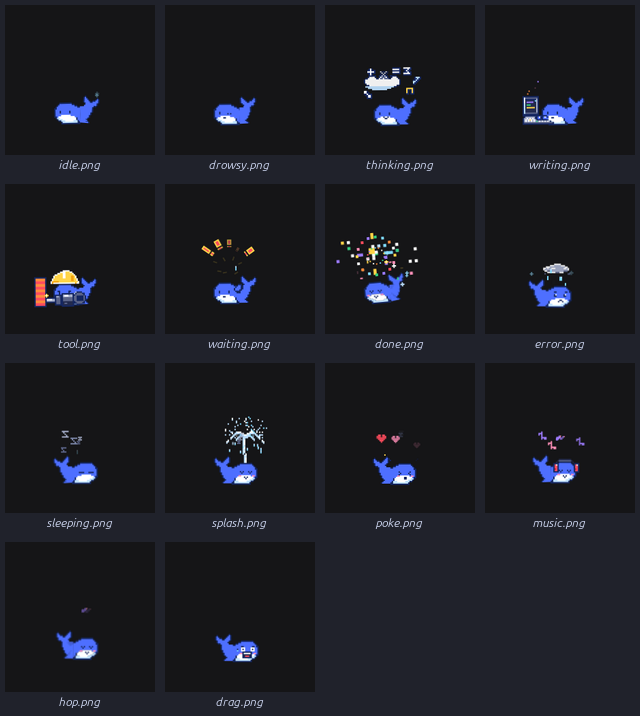
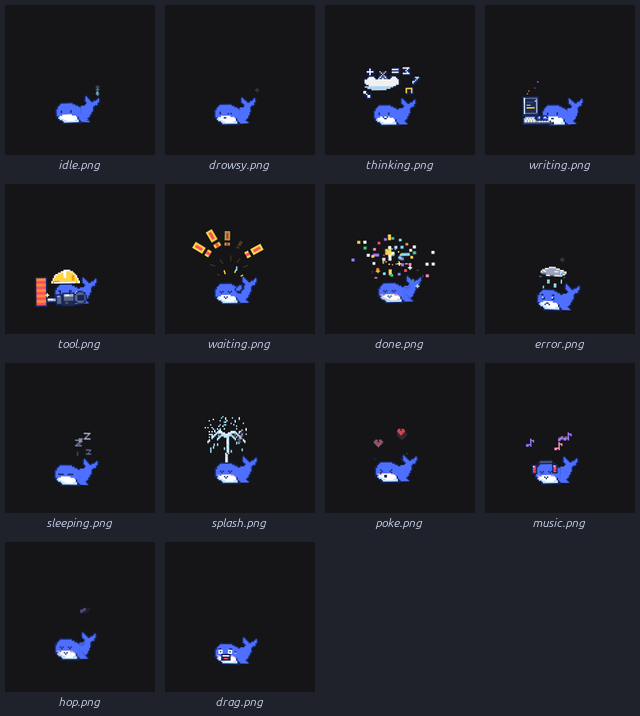
waiting: big radial exclamation fan and happy excited whale like the reference

diff --git a/client.js b/client.js
@@ -229,6 +229,8 @@ const ART = {
 
 /* --- 8. waiting (ref: notification): big "!" bubble + waving flipper ---- */
 .dsh-whale.is-waiting #dw-bob { animation: dw-bob 2.6s ease-in-out infinite; }
+.dsh-whale.is-waiting #dw-face,
+.dsh-whale.is-waiting #dw-mouth-smile { display: none; }
 .dsh-whale.is-waiting .dw-alert { animation: dw-alert-pop 1.6s ease-out infinite; animation-delay: var(--ad, 0s); transform-box: fill-box; transform-origin: center; }
 .dsh-whale.is-waiting .dw-alert-spark { animation: dw-alert-spark 1.1s steps(1, end) infinite; animation-delay: var(--ad, 0s); }
 @keyframes dw-alert-pop {
@@ -609,7 +611,7 @@ const ART = {
     <g id="dw-hammer" class="dw-only dw-on-tool"><rect x="4" y="76" width="18" height="8" fill="#142660"/><rect x="6" y="78" width="14" height="4" fill="#A7B0CC"/><rect x="6" y="78" width="8" height="2" fill="#FFFFFF"/><rect x="18" y="80" width="4" height="2" fill="#5B6488"/><rect x="18" y="72" width="10" height="16" fill="#142660"/><rect x="20" y="74" width="6" height="12" fill="#5B6488"/><rect x="20" y="74" width="4" height="2" fill="#A7B0CC"/><rect x="28" y="70" width="18" height="20" fill="#142660"/><rect x="30" y="72" width="14" height="16" fill="#5B6488"/><rect x="30" y="72" width="14" height="4" fill="#A7B0CC"/><rect x="32" y="73" width="6" height="2" fill="#FFFFFF"/><rect x="30" y="82" width="14" height="6" fill="#222A4E"/><rect x="32" y="84" width="4" height="2" fill="#5B6488"/><g id="dw-handle-loop"><rect x="50" y="68" width="2" height="2" fill="#142660"/><rect x="52" y="68" width="2" height="2" fill="#142660"/><rect x="54" y="68" width="2" height="2" fill="#142660"/><rect x="56" y="68" width="2" height="2" fill="#142660"/><rect x="46" y="70" width="2" height="2" fill="#142660"/><rect x="48" y="70" width="2" height="2" fill="#142660"/><rect x="50" y="70" width="2" height="2" fill="#5B6488"/><rect x="52" y="70" width="2" height="2" fill="#5B6488"/><rect x="54" y="70" width="2" height="2" fill="#5B6488"/><rect x="56" y="70" width="2" height="2" fill="#5B6488"/><rect x="58" y="70" width="2" height="2" fill="#142660"/><rect x="60" y="70" width="2" height="2" fill="#142660"/><rect x="46" y="72" width="2" height="2" fill="#142660"/><rect x="48" y="72" width="2" height="2" fill="#5B6488"/><rect x="50" y="72" width="2" height="2" fill="#5B6488"/><rect x="52" y="72" width="2" height="2" fill="#5B6488"/><rect x="54" y="72" width="2" height="2" fill="#5B6488"/><rect x="56" y="72" width="2" height="2" fill="#5B6488"/><rect x="58" y="72" width="2" height="2" fill="#5B6488"/><rect x="60" y="72" width="2" height="2" fill="#142660"/><rect x="44" y="74" width="2" height="2" fill="#142660"/><rect x="46" y="74" width="2" height="2" fill="#5B6488"/><rect x="48" y="74" width="2" height="2" fill="#5B6488"/><rect x="58" y="74" width="2" height="2" fill="#5B6488"/><rect x="60" y="74" width="2" height="2" fill="#5B6488"/><rect x="62" y="74" width="2" height="2" fill="#142660"/><rect x="44" y="76" width="2" height="2" fill="#142660"/><rect x="46" y="76" width="2" height="2" fill="#5B6488"/><rect x="48" y="76" width="2" height="2" fill="#5B6488"/><rect x="58" y="76" width="2" height="2" fill="#5B6488"/><rect x="60" y="76" width="2" height="2" fill="#5B6488"/><rect x="62" y="76" width="2" height="2" fill="#142660"/><rect x="44" y="78" width="2" height="2" fill="#142660"/><rect x="46" y="78" width="2" height="2" fill="#5B6488"/><rect x="48" y="78" width="2" height="2" fill="#5B6488"/><rect x="58" y="78" width="2" height="2" fill="#5B6488"/><rect x="60" y="78" width="2" height="2" fill="#5B6488"/><rect x="62" y="78" width="2" height="2" fill="#142660"/><rect x="44" y="80" width="2" height="2" fill="#142660"/><rect x="46" y="80" width="2" height="2" fill="#5B6488"/><rect x="48" y="80" width="2" height="2" fill="#5B6488"/><rect x="58" y="80" width="2" height="2" fill="#5B6488"/><rect x="60" y="80" width="2" height="2" fill="#5B6488"/><rect x="62" y="80" width="2" height="2" fill="#142660"/><rect x="46" y="82" width="2" height="2" fill="#142660"/><rect x="48" y="82" width="2" height="2" fill="#5B6488"/><rect x="50" y="82" width="2" height="2" fill="#5B6488"/><rect x="52" y="82" width="2" height="2" fill="#5B6488"/><rect x="54" y="82" width="2" height="2" fill="#5B6488"/><rect x="56" y="82" width="2" height="2" fill="#5B6488"/><rect x="58" y="82" width="2" height="2" fill="#5B6488"/><rect x="60" y="82" width="2" height="2" fill="#142660"/><rect x="46" y="84" width="2" height="2" fill="#142660"/><rect x="48" y="84" width="2" height="2" fill="#142660"/><rect x="50" y="84" width="2" height="2" fill="#5B6488"/><rect x="52" y="84" width="2" height="2" fill="#5B6488"/><rect x="54" y="84" width="2" height="2" fill="#5B6488"/><rect x="56" y="84" width="2" height="2" fill="#5B6488"/><rect x="58" y="84" width="2" height="2" fill="#142660"/><rect x="60" y="84" width="2" height="2" fill="#142660"/><rect x="50" y="86" width="2" height="2" fill="#142660"/><rect x="52" y="86" width="2" height="2" fill="#142660"/><rect x="54" y="86" width="2" height="2" fill="#142660"/><rect x="56" y="86" width="2" height="2" fill="#142660"/><rect x="46" y="70" width="2" height="2" fill="#A7B0CC"/><rect x="48" y="68" width="2" height="2" fill="#A7B0CC"/><rect x="50" y="74" width="2" height="2" fill="#142660"/><rect x="50" y="76" width="2" height="2" fill="#142660"/><rect x="50" y="78" width="2" height="2" fill="#142660"/><rect x="50" y="80" width="2" height="2" fill="#142660"/><rect x="52" y="74" width="2" height="2" fill="#142660"/><rect x="52" y="76" width="2" height="2" fill="#142660"/><rect x="52" y="78" width="2" height="2" fill="#142660"/><rect x="52" y="80" width="2" height="2" fill="#142660"/><rect x="54" y="74" width="2" height="2" fill="#142660"/><rect x="54" y="76" width="2" height="2" fill="#142660"/><rect x="54" y="78" width="2" height="2" fill="#142660"/><rect x="54" y="80" width="2" height="2" fill="#142660"/><rect x="56" y="74" width="2" height="2" fill="#142660"/><rect x="56" y="76" width="2" height="2" fill="#142660"/><rect x="56" y="78" width="2" height="2" fill="#142660"/><rect x="56" y="80" width="2" height="2" fill="#142660"/><rect x="58" y="74" width="2" height="2" fill="#142660"/><rect x="58" y="76" width="2" height="2" fill="#142660"/><rect x="58" y="78" width="2" height="2" fill="#142660"/><rect x="58" y="80" width="2" height="2" fill="#142660"/></g></g><g id="dw-face"><rect x="24" y="68" width="2" height="4" fill="#142660"/><rect x="38" y="68" width="2" height="4" fill="#142660"/></g>
     <g id="dw-face-blink" class="dw-alt dw-on-idle"><rect x="24" y="70" width="4" height="2" fill="#142660"/><rect x="38" y="70" width="4" height="2" fill="#142660"/></g>
     <g id="dw-face-up" class="dw-alt dw-on-thinking"><rect x="24" y="66" width="2" height="4" fill="#142660"/><rect x="38" y="66" width="2" height="4" fill="#142660"/></g><g id="dw-face-up-blink" class="dw-alt dw-on-thinking"><rect x="22" y="68" width="4" height="2" fill="#142660"/><rect x="38" y="68" width="4" height="2" fill="#142660"/></g>
-    <g id="dw-face-happy" class="dw-alt dw-on-done dw-on-music dw-on-splash dw-on-hop"><rect x="24" y="68" width="2" height="2" fill="#142660"/><rect x="26" y="70" width="2" height="2" fill="#142660"/><rect x="28" y="68" width="2" height="2" fill="#142660"/><rect x="36" y="68" width="2" height="2" fill="#142660"/><rect x="38" y="70" width="2" height="2" fill="#142660"/><rect x="40" y="68" width="2" height="2" fill="#142660"/></g>
+    <g id="dw-face-happy" class="dw-alt dw-on-done dw-on-music dw-on-splash dw-on-hop dw-on-waiting"><rect x="24" y="68" width="2" height="2" fill="#142660"/><rect x="26" y="70" width="2" height="2" fill="#142660"/><rect x="28" y="68" width="2" height="2" fill="#142660"/><rect x="36" y="68" width="2" height="2" fill="#142660"/><rect x="38" y="70" width="2" height="2" fill="#142660"/><rect x="40" y="68" width="2" height="2" fill="#142660"/></g>
     <g id="dw-face-sad" class="dw-alt dw-on-error"><rect x="24" y="68" width="4" height="4" fill="#142660"/><rect x="24" y="68" width="2" height="2" fill="#FFFFFF"/><rect x="38" y="68" width="4" height="4" fill="#142660"/><rect x="38" y="68" width="2" height="2" fill="#FFFFFF"/><rect x="22" y="64" width="4" height="2" fill="#142660"/><rect x="38" y="64" width="4" height="2" fill="#142660"/></g>
     <g id="dw-drowsy-eye-closed" class="dw-alt dw-on-drowsy"><rect x="36" y="70" width="2" height="2" fill="#142660"/><rect x="40" y="70" width="2" height="2" fill="#142660"/></g><g id="dw-drowsy-eye-open" class="dw-alt dw-on-drowsy"><rect x="38" y="68" width="2" height="4" fill="#142660"/></g><g id="dw-face-sleep" class="dw-alt dw-on-sleeping"><rect x="22" y="70" width="8" height="2" fill="#142660"/><rect x="36" y="70" width="8" height="2" fill="#142660"/></g>
     <g id="dw-face-odd" class="dw-alt dw-on-poke"><rect x="24" y="68" width="2" height="2" fill="#142660"/><rect x="26" y="70" width="2" height="2" fill="#142660"/><rect x="24" y="72" width="2" height="2" fill="#142660"/><rect x="40" y="68" width="2" height="2" fill="#142660"/><rect x="38" y="70" width="2" height="2" fill="#142660"/><rect x="40" y="72" width="2" height="2" fill="#142660"/></g>
@@ -618,10 +620,10 @@ const ART = {
     <g id="dw-face-drag" class="dw-alt dw-on-drag"><rect x="22" y="64" width="4" height="2" fill="#142660"/><rect x="38" y="64" width="4" height="2" fill="#142660"/><rect x="22" y="66" width="6" height="6" fill="#FFFFFF"/><rect x="24" y="68" width="2" height="2" fill="#142660"/><rect x="36" y="66" width="6" height="6" fill="#FFFFFF"/><rect x="38" y="68" width="2" height="2" fill="#142660"/><rect x="46" y="68" width="2" height="4" fill="#7FDBFF"/><rect x="46" y="68" width="2" height="2" fill="#142660"/></g>
     <g id="dw-blush" class="dw-alt dw-on-done dw-on-music dw-on-splash dw-on-poke dw-on-hop dw-on-drag"><rect x="20" y="74" width="4" height="2" fill="#FF8FB8"/><rect x="40" y="74" width="4" height="2" fill="#FF8FB8"/></g>
     <g id="dw-mouth-smile"><rect x="30" y="76" width="4" height="2" fill="#142660"/></g><g id="dw-mouth-drag-closed" class="dw-alt dw-on-drag"><rect x="28" y="76" width="10" height="2" fill="#142660"/></g><g id="dw-mouth-drag-open" class="dw-alt dw-on-drag"><rect x="26" y="72" width="14" height="10" fill="#142660"/><rect x="28" y="74" width="10" height="6" fill="#222A4E"/><rect x="28" y="74" width="10" height="2" fill="#FFFFFF"/><rect x="30" y="78" width="6" height="2" fill="#FF4D5E"/></g><g id="dw-mouth-think-closed" class="dw-alt dw-on-thinking"><rect x="30" y="74" width="2" height="2" fill="#142660"/><rect x="32" y="76" width="2" height="2" fill="#142660"/><rect x="34" y="76" width="2" height="2" fill="#142660"/><rect x="36" y="74" width="2" height="2" fill="#142660"/></g><g id="dw-mouth-think-line" class="dw-alt dw-on-thinking"><rect x="30" y="76" width="6" height="2" fill="#142660"/></g><g id="dw-mouth-think-open" class="dw-alt dw-on-thinking"><rect x="30" y="74" width="6" height="4" fill="#142660"/><rect x="32" y="76" width="2" height="2" fill="#FF8FB8"/></g>
-    <g id="dw-mouth-happy" class="dw-alt dw-on-done dw-on-music dw-on-splash dw-on-hop"><rect x="30" y="76" width="2" height="2" fill="#142660"/><rect x="32" y="78" width="2" height="2" fill="#142660"/><rect x="34" y="76" width="2" height="2" fill="#142660"/></g>
+    <g id="dw-mouth-happy" class="dw-alt dw-on-done dw-on-music dw-on-splash dw-on-hop dw-on-waiting"><rect x="30" y="76" width="2" height="2" fill="#142660"/><rect x="32" y="78" width="2" height="2" fill="#142660"/><rect x="34" y="76" width="2" height="2" fill="#142660"/></g>
     <g id="dw-mouth-frown" class="dw-alt dw-on-error"><rect x="28" y="78" width="2" height="2" fill="#142660"/><rect x="30" y="76" width="4" height="2" fill="#142660"/><rect x="34" y="78" width="2" height="2" fill="#142660"/></g>
     <g id="dw-mouth-o" class="dw-alt dw-on-poke"><rect x="30" y="76" width="4" height="4" fill="#142660"/></g>
-    <g id="dw-alerts" class="dw-only dw-on-waiting"><rect class="dw-alert-spark" x="16" y="26" width="2" height="6" fill="#FFD447" transform="rotate(-70 16 26)" style="--ad:0.20s"/><rect class="dw-alert-spark" x="30" y="20" width="2" height="6" fill="#FFD447" transform="rotate(-30 30 20)" style="--ad:0.00s"/><rect class="dw-alert-spark" x="46" y="18" width="2" height="6" fill="#FFD447" transform="rotate(20 46 18)" style="--ad:0.40s"/><rect class="dw-alert-spark" x="58" y="26" width="2" height="6" fill="#FFD447" transform="rotate(65 58 26)" style="--ad:0.40s"/><rect class="dw-alert-spark" x="36" y="40" width="2" height="6" fill="#FFD447" transform="rotate(80 36 40)" style="--ad:0.10s"/><rect class="dw-alert-spark" x="22" y="40" width="2" height="6" fill="#FFD447" transform="rotate(-80 22 40)" style="--ad:0.20s"/><rect class="dw-alert-spark" x="52" y="40" width="2" height="6" fill="#FFD447" transform="rotate(60 52 40)" style="--ad:0.20s"/><g transform="translate(18 16) rotate(-55)"><g class="dw-alert" style="--ad:0s"><path d="M-3 -20h6v13h-6zM-3 -5h6v4h-6z" fill="#FFD447"/><path d="M-1 -18h2v9h-2zM-1 -5h2v4h-2z" fill="#FF4D5E"/></g></g><g transform="translate(28 8) rotate(-28)"><g class="dw-alert" style="--ad:0.12s"><path d="M-4 -16h8v10h-8zM-4 -4h8v2h-8z" fill="#FFD447"/><path d="M-2 -14h4v6h-4zM-2 -4h4v2h-4z" fill="#FF4D5E"/></g></g><g transform="translate(40 4) rotate(0)"><g class="dw-alert" style="--ad:0.24s"><path d="M-4 -16h8v10h-8zM-4 -4h8v2h-8z" fill="#FFD447"/><path d="M-2 -14h4v6h-4zM-2 -4h4v2h-4z" fill="#FF4D5E"/></g></g><g transform="translate(52 8) rotate(28)"><g class="dw-alert" style="--ad:0.36s"><path d="M-4 -16h8v10h-8zM-4 -4h8v2h-8z" fill="#FFD447"/><path d="M-2 -14h4v6h-4zM-2 -4h4v2h-4z" fill="#FF4D5E"/></g></g><g transform="translate(62 16) rotate(55)"><g class="dw-alert" style="--ad:0.48s"><path d="M-4 -16h8v10h-8zM-4 -4h8v2h-8z" fill="#FFD447"/><path d="M-2 -14h4v6h-4zM-2 -4h4v2h-4z" fill="#FF4D5E"/></g></g></g><g id="dw-wavefin" class="dw-only dw-on-waiting"><path d="M52 58h6v2h-6zM50 60h2v2h-2zM56 60h4v6h-4zM48 62h2v2h-2zM46 64h2v4h-2zM54 66h4v2h-4zM48 68h8v2h-8zM50 70h6v2h-6z" fill="#142660"/><path d="M52 60h4v6h-4zM50 62h2v6h-2zM48 64h2v4h-2zM52 66h2v2h-2z" fill="#4E6FFF"/></g>
+    <g id="dw-alerts" class="dw-only dw-on-waiting"><rect class="dw-alert-spark" x="10" y="30" width="2" height="8" fill="#FFD447" transform="rotate(-72 10 30)" style="--ad:0.10s"/><rect class="dw-alert-spark" x="24" y="22" width="2" height="8" fill="#FFD447" transform="rotate(-34 24 22)" style="--ad:0.30s"/><rect class="dw-alert-spark" x="40" y="16" width="2" height="8" fill="#FFD447" transform="rotate(0 40 16)" style="--ad:0.50s"/><rect class="dw-alert-spark" x="54" y="20" width="2" height="8" fill="#FFD447" transform="rotate(40 54 20)" style="--ad:0.20s"/><rect class="dw-alert-spark" x="66" y="30" width="2" height="8" fill="#FFD447" transform="rotate(70 66 30)" style="--ad:0.45s"/><rect class="dw-alert-spark" x="30" y="38" width="2" height="6" fill="#FFD447" transform="rotate(-15 30 38)" style="--ad:0.60s"/><rect class="dw-alert-spark" x="48" y="36" width="2" height="6" fill="#FFD447" transform="rotate(25 48 36)" style="--ad:0.70s"/><rect class="dw-alert-spark" x="20" y="44" width="2" height="4" fill="#FFD447" transform="rotate(-60 20 44)" style="--ad:0.35s"/><rect class="dw-alert-spark" x="58" y="44" width="2" height="4" fill="#FFD447" transform="rotate(55 58 44)" style="--ad:0.55s"/><g transform="translate(10 14) rotate(-58)"><g class="dw-alert" style="--ad:0.0s"><path d="M-5 -26h10v17h-10zM-5 -5h10v6h-10z" fill="#FFD447"/><path d="M-2 -23h4v11h-4zM-2 -5h4v6h-4z" fill="#FF4D5E"/></g></g><g transform="translate(22 2) rotate(-30)"><g class="dw-alert" style="--ad:0.12s"><path d="M-5 -26h10v17h-10zM-5 -5h10v6h-10z" fill="#FFD447"/><path d="M-2 -23h4v11h-4zM-2 -5h4v6h-4z" fill="#FF4D5E"/></g></g><g transform="translate(36 0) rotate(2)"><g class="dw-alert" style="--ad:0.24s"><path d="M-5 -26h10v17h-10zM-5 -5h10v6h-10z" fill="#FFD447"/><path d="M-2 -23h4v11h-4zM-2 -5h4v6h-4z" fill="#FF4D5E"/></g></g><g transform="translate(52 4) rotate(32)"><g class="dw-alert" style="--ad:0.36s"><path d="M-5 -26h10v17h-10zM-5 -5h10v6h-10z" fill="#FFD447"/><path d="M-2 -23h4v11h-4zM-2 -5h4v6h-4z" fill="#FF4D5E"/></g></g><g transform="translate(64 16) rotate(62)"><g class="dw-alert" style="--ad:0.48s"><path d="M-5 -26h10v17h-10zM-5 -5h10v6h-10z" fill="#FFD447"/><path d="M-2 -23h4v11h-4zM-2 -5h4v6h-4z" fill="#FF4D5E"/></g></g></g><g id="dw-wavefin" class="dw-only dw-on-waiting"><path d="M52 58h6v2h-6zM50 60h2v2h-2zM56 60h4v6h-4zM48 62h2v2h-2zM46 64h2v4h-2zM54 66h4v2h-4zM48 68h8v2h-8zM50 70h6v2h-6z" fill="#142660"/><path d="M52 60h4v6h-4zM50 62h2v6h-2zM48 64h2v4h-2zM52 66h2v2h-2z" fill="#4E6FFF"/></g>
     
     
     <g id="dw-hat" class="dw-only dw-on-tool"><path d="M30 36h10v20h-10zM26 38h4v18h-4zM40 38h4v18h-4zM22 40h4v16h-4zM44 40h2v16h-2zM18 42h4v14h-4zM46 42h2v14h-2zM16 44h2v12h-2zM48 44h2v12h-2zM14 48h2v8h-2zM50 48h2v8h-2zM12 52h2v4h-2zM52 52h2v4h-2z" fill="#FFFFFF"/><path d="M30 38h10v16h-10zM26 40h4v14h-4zM40 40h4v14h-4zM22 42h4v12h-4zM44 42h2v12h-2zM18 44h4v10h-4zM46 44h2v10h-2zM16 48h2v6h-2zM48 48h2v6h-2zM14 52h2v2h-2zM50 52h2v2h-2z" fill="#FFD447"/><rect x="30" y="38" width="4" height="10" fill="#FFFFFF"/><rect x="42" y="44" width="4" height="8" fill="#F2A20C"/><rect x="14" y="52" width="10" height="2" fill="#F2A20C"/><rect x="14" y="54" width="2" height="2" fill="#F2A20C"/><rect x="48" y="54" width="2" height="2" fill="#F2A20C"/></g>

diff --git a/src/art.js b/src/art.js
@@ -219,6 +219,8 @@ const ART = {
 
 /* --- 8. waiting (ref: notification): big "!" bubble + waving flipper ---- */
 .dsh-whale.is-waiting #dw-bob { animation: dw-bob 2.6s ease-in-out infinite; }
+.dsh-whale.is-waiting #dw-face,
+.dsh-whale.is-waiting #dw-mouth-smile { display: none; }
 .dsh-whale.is-waiting .dw-alert { animation: dw-alert-pop 1.6s ease-out infinite; animation-delay: var(--ad, 0s); transform-box: fill-box; transform-origin: center; }
 .dsh-whale.is-waiting .dw-alert-spark { animation: dw-alert-spark 1.1s steps(1, end) infinite; animation-delay: var(--ad, 0s); }
 @keyframes dw-alert-pop {
@@ -599,7 +601,7 @@ const ART = {
     <g id="dw-hammer" class="dw-only dw-on-tool"><rect x="4" y="76" width="18" height="8" fill="#142660"/><rect x="6" y="78" width="14" height="4" fill="#A7B0CC"/><rect x="6" y="78" width="8" height="2" fill="#FFFFFF"/><rect x="18" y="80" width="4" height="2" fill="#5B6488"/><rect x="18" y="72" width="10" height="16" fill="#142660"/><rect x="20" y="74" width="6" height="12" fill="#5B6488"/><rect x="20" y="74" width="4" height="2" fill="#A7B0CC"/><rect x="28" y="70" width="18" height="20" fill="#142660"/><rect x="30" y="72" width="14" height="16" fill="#5B6488"/><rect x="30" y="72" width="14" height="4" fill="#A7B0CC"/><rect x="32" y="73" width="6" height="2" fill="#FFFFFF"/><rect x="30" y="82" width="14" height="6" fill="#222A4E"/><rect x="32" y="84" width="4" height="2" fill="#5B6488"/><g id="dw-handle-loop"><rect x="50" y="68" width="2" height="2" fill="#142660"/><rect x="52" y="68" width="2" height="2" fill="#142660"/><rect x="54" y="68" width="2" height="2" fill="#142660"/><rect x="56" y="68" width="2" height="2" fill="#142660"/><rect x="46" y="70" width="2" height="2" fill="#142660"/><rect x="48" y="70" width="2" height="2" fill="#142660"/><rect x="50" y="70" width="2" height="2" fill="#5B6488"/><rect x="52" y="70" width="2" height="2" fill="#5B6488"/><rect x="54" y="70" width="2" height="2" fill="#5B6488"/><rect x="56" y="70" width="2" height="2" fill="#5B6488"/><rect x="58" y="70" width="2" height="2" fill="#142660"/><rect x="60" y="70" width="2" height="2" fill="#142660"/><rect x="46" y="72" width="2" height="2" fill="#142660"/><rect x="48" y="72" width="2" height="2" fill="#5B6488"/><rect x="50" y="72" width="2" height="2" fill="#5B6488"/><rect x="52" y="72" width="2" height="2" fill="#5B6488"/><rect x="54" y="72" width="2" height="2" fill="#5B6488"/><rect x="56" y="72" width="2" height="2" fill="#5B6488"/><rect x="58" y="72" width="2" height="2" fill="#5B6488"/><rect x="60" y="72" width="2" height="2" fill="#142660"/><rect x="44" y="74" width="2" height="2" fill="#142660"/><rect x="46" y="74" width="2" height="2" fill="#5B6488"/><rect x="48" y="74" width="2" height="2" fill="#5B6488"/><rect x="58" y="74" width="2" height="2" fill="#5B6488"/><rect x="60" y="74" width="2" height="2" fill="#5B6488"/><rect x="62" y="74" width="2" height="2" fill="#142660"/><rect x="44" y="76" width="2" height="2" fill="#142660"/><rect x="46" y="76" width="2" height="2" fill="#5B6488"/><rect x="48" y="76" width="2" height="2" fill="#5B6488"/><rect x="58" y="76" width="2" height="2" fill="#5B6488"/><rect x="60" y="76" width="2" height="2" fill="#5B6488"/><rect x="62" y="76" width="2" height="2" fill="#142660"/><rect x="44" y="78" width="2" height="2" fill="#142660"/><rect x="46" y="78" width="2" height="2" fill="#5B6488"/><rect x="48" y="78" width="2" height="2" fill="#5B6488"/><rect x="58" y="78" width="2" height="2" fill="#5B6488"/><rect x="60" y="78" width="2" height="2" fill="#5B6488"/><rect x="62" y="78" width="2" height="2" fill="#142660"/><rect x="44" y="80" width="2" height="2" fill="#142660"/><rect x="46" y="80" width="2" height="2" fill="#5B6488"/><rect x="48" y="80" width="2" height="2" fill="#5B6488"/><rect x="58" y="80" width="2" height="2" fill="#5B6488"/><rect x="60" y="80" width="2" height="2" fill="#5B6488"/><rect x="62" y="80" width="2" height="2" fill="#142660"/><rect x="46" y="82" width="2" height="2" fill="#142660"/><rect x="48" y="82" width="2" height="2" fill="#5B6488"/><rect x="50" y="82" width="2" height="2" fill="#5B6488"/><rect x="52" y="82" width="2" height="2" fill="#5B6488"/><rect x="54" y="82" width="2" height="2" fill="#5B6488"/><rect x="56" y="82" width="2" height="2" fill="#5B6488"/><rect x="58" y="82" width="2" height="2" fill="#5B6488"/><rect x="60" y="82" width="2" height="2" fill="#142660"/><rect x="46" y="84" width="2" height="2" fill="#142660"/><rect x="48" y="84" width="2" height="2" fill="#142660"/><rect x="50" y="84" width="2" height="2" fill="#5B6488"/><rect x="52" y="84" width="2" height="2" fill="#5B6488"/><rect x="54" y="84" width="2" height="2" fill="#5B6488"/><rect x="56" y="84" width="2" height="2" fill="#5B6488"/><rect x="58" y="84" width="2" height="2" fill="#142660"/><rect x="60" y="84" width="2" height="2" fill="#142660"/><rect x="50" y="86" width="2" height="2" fill="#142660"/><rect x="52" y="86" width="2" height="2" fill="#142660"/><rect x="54" y="86" width="2" height="2" fill="#142660"/><rect x="56" y="86" width="2" height="2" fill="#142660"/><rect x="46" y="70" width="2" height="2" fill="#A7B0CC"/><rect x="48" y="68" width="2" height="2" fill="#A7B0CC"/><rect x="50" y="74" width="2" height="2" fill="#142660"/><rect x="50" y="76" width="2" height="2" fill="#142660"/><rect x="50" y="78" width="2" height="2" fill="#142660"/><rect x="50" y="80" width="2" height="2" fill="#142660"/><rect x="52" y="74" width="2" height="2" fill="#142660"/><rect x="52" y="76" width="2" height="2" fill="#142660"/><rect x="52" y="78" width="2" height="2" fill="#142660"/><rect x="52" y="80" width="2" height="2" fill="#142660"/><rect x="54" y="74" width="2" height="2" fill="#142660"/><rect x="54" y="76" width="2" height="2" fill="#142660"/><rect x="54" y="78" width="2" height="2" fill="#142660"/><rect x="54" y="80" width="2" height="2" fill="#142660"/><rect x="56" y="74" width="2" height="2" fill="#142660"/><rect x="56" y="76" width="2" height="2" fill="#142660"/><rect x="56" y="78" width="2" height="2" fill="#142660"/><rect x="56" y="80" width="2" height="2" fill="#142660"/><rect x="58" y="74" width="2" height="2" fill="#142660"/><rect x="58" y="76" width="2" height="2" fill="#142660"/><rect x="58" y="78" width="2" height="2" fill="#142660"/><rect x="58" y="80" width="2" height="2" fill="#142660"/></g></g><g id="dw-face"><rect x="24" y="68" width="2" height="4" fill="#142660"/><rect x="38" y="68" width="2" height="4" fill="#142660"/></g>
     <g id="dw-face-blink" class="dw-alt dw-on-idle"><rect x="24" y="70" width="4" height="2" fill="#142660"/><rect x="38" y="70" width="4" height="2" fill="#142660"/></g>
     <g id="dw-face-up" class="dw-alt dw-on-thinking"><rect x="24" y="66" width="2" height="4" fill="#142660"/><rect x="38" y="66" width="2" height="4" fill="#142660"/></g><g id="dw-face-up-blink" class="dw-alt dw-on-thinking"><rect x="22" y="68" width="4" height="2" fill="#142660"/><rect x="38" y="68" width="4" height="2" fill="#142660"/></g>
-    <g id="dw-face-happy" class="dw-alt dw-on-done dw-on-music dw-on-splash dw-on-hop"><rect x="24" y="68" width="2" height="2" fill="#142660"/><rect x="26" y="70" width="2" height="2" fill="#142660"/><rect x="28" y="68" width="2" height="2" fill="#142660"/><rect x="36" y="68" width="2" height="2" fill="#142660"/><rect x="38" y="70" width="2" height="2" fill="#142660"/><rect x="40" y="68" width="2" height="2" fill="#142660"/></g>
+    <g id="dw-face-happy" class="dw-alt dw-on-done dw-on-music dw-on-splash dw-on-hop dw-on-waiting"><rect x="24" y="68" width="2" height="2" fill="#142660"/><rect x="26" y="70" width="2" height="2" fill="#142660"/><rect x="28" y="68" width="2" height="2" fill="#142660"/><rect x="36" y="68" width="2" height="2" fill="#142660"/><rect x="38" y="70" width="2" height="2" fill="#142660"/><rect x="40" y="68" width="2" height="2" fill="#142660"/></g>
     <g id="dw-face-sad" class="dw-alt dw-on-error"><rect x="24" y="68" width="4" height="4" fill="#142660"/><rect x="24" y="68" width="2" height="2" fill="#FFFFFF"/><rect x="38" y="68" width="4" height="4" fill="#142660"/><rect x="38" y="68" width="2" height="2" fill="#FFFFFF"/><rect x="22" y="64" width="4" height="2" fill="#142660"/><rect x="38" y="64" width="4" height="2" fill="#142660"/></g>
     <g id="dw-drowsy-eye-closed" class="dw-alt dw-on-drowsy"><rect x="36" y="70" width="2" height="2" fill="#142660"/><rect x="40" y="70" width="2" height="2" fill="#142660"/></g><g id="dw-drowsy-eye-open" class="dw-alt dw-on-drowsy"><rect x="38" y="68" width="2" height="4" fill="#142660"/></g><g id="dw-face-sleep" class="dw-alt dw-on-sleeping"><rect x="22" y="70" width="8" height="2" fill="#142660"/><rect x="36" y="70" width="8" height="2" fill="#142660"/></g>
     <g id="dw-face-odd" class="dw-alt dw-on-poke"><rect x="24" y="68" width="2" height="2" fill="#142660"/><rect x="26" y="70" width="2" height="2" fill="#142660"/><rect x="24" y="72" width="2" height="2" fill="#142660"/><rect x="40" y="68" width="2" height="2" fill="#142660"/><rect x="38" y="70" width="2" height="2" fill="#142660"/><rect x="40" y="72" width="2" height="2" fill="#142660"/></g>
@@ -608,10 +610,10 @@ const ART = {
     <g id="dw-face-drag" class="dw-alt dw-on-drag"><rect x="22" y="64" width="4" height="2" fill="#142660"/><rect x="38" y="64" width="4" height="2" fill="#142660"/><rect x="22" y="66" width="6" height="6" fill="#FFFFFF"/><rect x="24" y="68" width="2" height="2" fill="#142660"/><rect x="36" y="66" width="6" height="6" fill="#FFFFFF"/><rect x="38" y="68" width="2" height="2" fill="#142660"/><rect x="46" y="68" width="2" height="4" fill="#7FDBFF"/><rect x="46" y="68" width="2" height="2" fill="#142660"/></g>
     <g id="dw-blush" class="dw-alt dw-on-done dw-on-music dw-on-splash dw-on-poke dw-on-hop dw-on-drag"><rect x="20" y="74" width="4" height="2" fill="#FF8FB8"/><rect x="40" y="74" width="4" height="2" fill="#FF8FB8"/></g>
     <g id="dw-mouth-smile"><rect x="30" y="76" width="4" height="2" fill="#142660"/></g><g id="dw-mouth-drag-closed" class="dw-alt dw-on-drag"><rect x="28" y="76" width="10" height="2" fill="#142660"/></g><g id="dw-mouth-drag-open" class="dw-alt dw-on-drag"><rect x="26" y="72" width="14" height="10" fill="#142660"/><rect x="28" y="74" width="10" height="6" fill="#222A4E"/><rect x="28" y="74" width="10" height="2" fill="#FFFFFF"/><rect x="30" y="78" width="6" height="2" fill="#FF4D5E"/></g><g id="dw-mouth-think-closed" class="dw-alt dw-on-thinking"><rect x="30" y="74" width="2" height="2" fill="#142660"/><rect x="32" y="76" width="2" height="2" fill="#142660"/><rect x="34" y="76" width="2" height="2" fill="#142660"/><rect x="36" y="74" width="2" height="2" fill="#142660"/></g><g id="dw-mouth-think-line" class="dw-alt dw-on-thinking"><rect x="30" y="76" width="6" height="2" fill="#142660"/></g><g id="dw-mouth-think-open" class="dw-alt dw-on-thinking"><rect x="30" y="74" width="6" height="4" fill="#142660"/><rect x="32" y="76" width="2" height="2" fill="#FF8FB8"/></g>
-    <g id="dw-mouth-happy" class="dw-alt dw-on-done dw-on-music dw-on-splash dw-on-hop"><rect x="30" y="76" width="2" height="2" fill="#142660"/><rect x="32" y="78" width="2" height="2" fill="#142660"/><rect x="34" y="76" width="2" height="2" fill="#142660"/></g>
+    <g id="dw-mouth-happy" class="dw-alt dw-on-done dw-on-music dw-on-splash dw-on-hop dw-on-waiting"><rect x="30" y="76" width="2" height="2" fill="#142660"/><rect x="32" y="78" width="2" height="2" fill="#142660"/><rect x="34" y="76" width="2" height="2" fill="#142660"/></g>
     <g id="dw-mouth-frown" class="dw-alt dw-on-error"><rect x="28" y="78" width="2" height="2" fill="#142660"/><rect x="30" y="76" width="4" height="2" fill="#142660"/><rect x="34" y="78" width="2" height="2" fill="#142660"/></g>
     <g id="dw-mouth-o" class="dw-alt dw-on-poke"><rect x="30" y="76" width="4" height="4" fill="#142660"/></g>
-    <g id="dw-alerts" class="dw-only dw-on-waiting"><rect class="dw-alert-spark" x="16" y="26" width="2" height="6" fill="#FFD447" transform="rotate(-70 16 26)" style="--ad:0.20s"/><rect class="dw-alert-spark" x="30" y="20" width="2" height="6" fill="#FFD447" transform="rotate(-30 30 20)" style="--ad:0.00s"/><rect class="dw-alert-spark" x="46" y="18" width="2" height="6" fill="#FFD447" transform="rotate(20 46 18)" style="--ad:0.40s"/><rect class="dw-alert-spark" x="58" y="26" width="2" height="6" fill="#FFD447" transform="rotate(65 58 26)" style="--ad:0.40s"/><rect class="dw-alert-spark" x="36" y="40" width="2" height="6" fill="#FFD447" transform="rotate(80 36 40)" style="--ad:0.10s"/><rect class="dw-alert-spark" x="22" y="40" width="2" height="6" fill="#FFD447" transform="rotate(-80 22 40)" style="--ad:0.20s"/><rect class="dw-alert-spark" x="52" y="40" width="2" height="6" fill="#FFD447" transform="rotate(60 52 40)" style="--ad:0.20s"/><g transform="translate(18 16) rotate(-55)"><g class="dw-alert" style="--ad:0s"><path d="M-3 -20h6v13h-6zM-3 -5h6v4h-6z" fill="#FFD447"/><path d="M-1 -18h2v9h-2zM-1 -5h2v4h-2z" fill="#FF4D5E"/></g></g><g transform="translate(28 8) rotate(-28)"><g class="dw-alert" style="--ad:0.12s"><path d="M-4 -16h8v10h-8zM-4 -4h8v2h-8z" fill="#FFD447"/><path d="M-2 -14h4v6h-4zM-2 -4h4v2h-4z" fill="#FF4D5E"/></g></g><g transform="translate(40 4) rotate(0)"><g class="dw-alert" style="--ad:0.24s"><path d="M-4 -16h8v10h-8zM-4 -4h8v2h-8z" fill="#FFD447"/><path d="M-2 -14h4v6h-4zM-2 -4h4v2h-4z" fill="#FF4D5E"/></g></g><g transform="translate(52 8) rotate(28)"><g class="dw-alert" style="--ad:0.36s"><path d="M-4 -16h8v10h-8zM-4 -4h8v2h-8z" fill="#FFD447"/><path d="M-2 -14h4v6h-4zM-2 -4h4v2h-4z" fill="#FF4D5E"/></g></g><g transform="translate(62 16) rotate(55)"><g class="dw-alert" style="--ad:0.48s"><path d="M-4 -16h8v10h-8zM-4 -4h8v2h-8z" fill="#FFD447"/><path d="M-2 -14h4v6h-4zM-2 -4h4v2h-4z" fill="#FF4D5E"/></g></g></g><g id="dw-wavefin" class="dw-only dw-on-waiting"><path d="M52 58h6v2h-6zM50 60h2v2h-2zM56 60h4v6h-4zM48 62h2v2h-2zM46 64h2v4h-2zM54 66h4v2h-4zM48 68h8v2h-8zM50 70h6v2h-6z" fill="#142660"/><path d="M52 60h4v6h-4zM50 62h2v6h-2zM48 64h2v4h-2zM52 66h2v2h-2z" fill="#4E6FFF"/></g>
+    <g id="dw-alerts" class="dw-only dw-on-waiting"><rect class="dw-alert-spark" x="10" y="30" width="2" height="8" fill="#FFD447" transform="rotate(-72 10 30)" style="--ad:0.10s"/><rect class="dw-alert-spark" x="24" y="22" width="2" height="8" fill="#FFD447" transform="rotate(-34 24 22)" style="--ad:0.30s"/><rect class="dw-alert-spark" x="40" y="16" width="2" height="8" fill="#FFD447" transform="rotate(0 40 16)" style="--ad:0.50s"/><rect class="dw-alert-spark" x="54" y="20" width="2" height="8" fill="#FFD447" transform="rotate(40 54 20)" style="--ad:0.20s"/><rect class="dw-alert-spark" x="66" y="30" width="2" height="8" fill="#FFD447" transform="rotate(70 66 30)" style="--ad:0.45s"/><rect class="dw-alert-spark" x="30" y="38" width="2" height="6" fill="#FFD447" transform="rotate(-15 30 38)" style="--ad:0.60s"/><rect class="dw-alert-spark" x="48" y="36" width="2" height="6" fill="#FFD447" transform="rotate(25 48 36)" style="--ad:0.70s"/><rect class="dw-alert-spark" x="20" y="44" width="2" height="4" fill="#FFD447" transform="rotate(-60 20 44)" style="--ad:0.35s"/><rect class="dw-alert-spark" x="58" y="44" width="2" height="4" fill="#FFD447" transform="rotate(55 58 44)" style="--ad:0.55s"/><g transform="translate(10 14) rotate(-58)"><g class="dw-alert" style="--ad:0.0s"><path d="M-5 -26h10v17h-10zM-5 -5h10v6h-10z" fill="#FFD447"/><path d="M-2 -23h4v11h-4zM-2 -5h4v6h-4z" fill="#FF4D5E"/></g></g><g transform="translate(22 2) rotate(-30)"><g class="dw-alert" style="--ad:0.12s"><path d="M-5 -26h10v17h-10zM-5 -5h10v6h-10z" fill="#FFD447"/><path d="M-2 -23h4v11h-4zM-2 -5h4v6h-4z" fill="#FF4D5E"/></g></g><g transform="translate(36 0) rotate(2)"><g class="dw-alert" style="--ad:0.24s"><path d="M-5 -26h10v17h-10zM-5 -5h10v6h-10z" fill="#FFD447"/><path d="M-2 -23h4v11h-4zM-2 -5h4v6h-4z" fill="#FF4D5E"/></g></g><g transform="translate(52 4) rotate(32)"><g class="dw-alert" style="--ad:0.36s"><path d="M-5 -26h10v17h-10zM-5 -5h10v6h-10z" fill="#FFD447"/><path d="M-2 -23h4v11h-4zM-2 -5h4v6h-4z" fill="#FF4D5E"/></g></g><g transform="translate(64 16) rotate(62)"><g class="dw-alert" style="--ad:0.48s"><path d="M-5 -26h10v17h-10zM-5 -5h10v6h-10z" fill="#FFD447"/><path d="M-2 -23h4v11h-4zM-2 -5h4v6h-4z" fill="#FF4D5E"/></g></g></g><g id="dw-wavefin" class="dw-only dw-on-waiting"><path d="M52 58h6v2h-6zM50 60h2v2h-2zM56 60h4v6h-4zM48 62h2v2h-2zM46 64h2v4h-2zM54 66h4v2h-4zM48 68h8v2h-8zM50 70h6v2h-6z" fill="#142660"/><path d="M52 60h4v6h-4zM50 62h2v6h-2zM48 64h2v4h-2zM52 66h2v2h-2z" fill="#4E6FFF"/></g>
     
     
     <g id="dw-hat" class="dw-only dw-on-tool"><path d="M30 36h10v20h-10zM26 38h4v18h-4zM40 38h4v18h-4zM22 40h4v16h-4zM44 40h2v16h-2zM18 42h4v14h-4zM46 42h2v14h-2zM16 44h2v12h-2zM48 44h2v12h-2zM14 48h2v8h-2zM50 48h2v8h-2zM12 52h2v4h-2zM52 52h2v4h-2z" fill="#FFFFFF"/><path d="M30 38h10v16h-10zM26 40h4v14h-4zM40 40h4v14h-4zM22 42h4v12h-4zM44 42h2v12h-2zM18 44h4v10h-4zM46 44h2v10h-2zM16 48h2v6h-2zM48 48h2v6h-2zM14 52h2v2h-2zM50 52h2v2h-2z" fill="#FFD447"/><rect x="30" y="38" width="4" height="10" fill="#FFFFFF"/><rect x="42" y="44" width="4" height="8" fill="#F2A20C"/><rect x="14" y="52" width="10" height="2" fill="#F2A20C"/><rect x="14" y="54" width="2" height="2" fill="#F2A20C"/><rect x="48" y="54" width="2" height="2" fill="#F2A20C"/></g>
